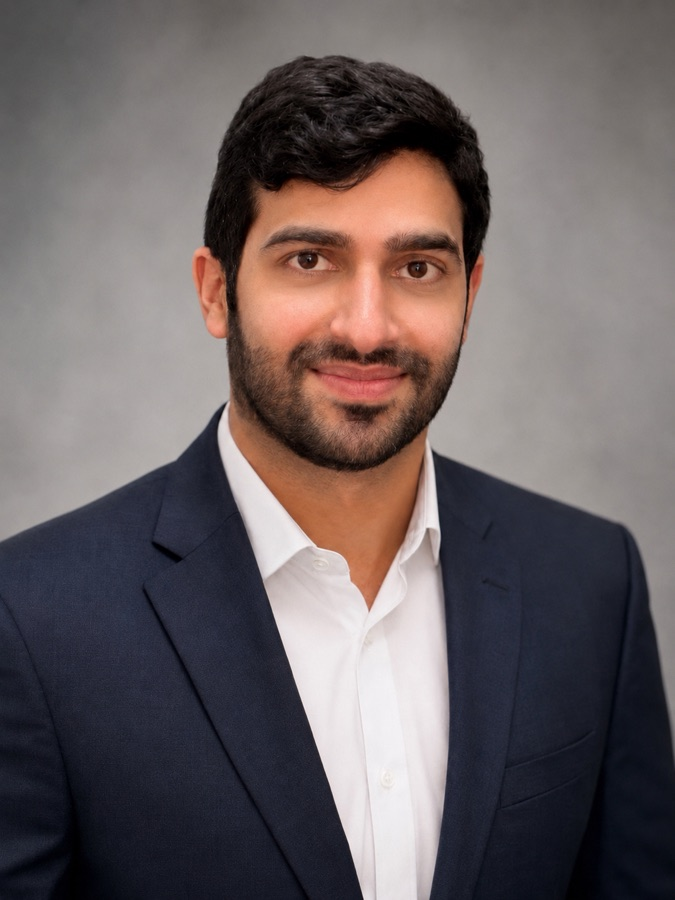
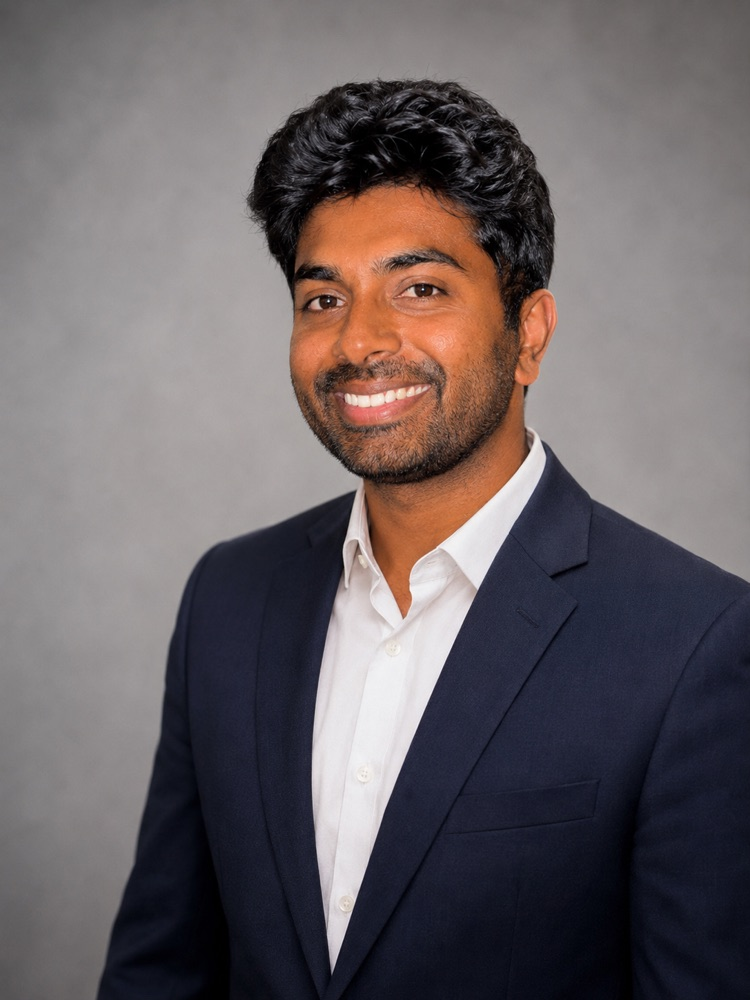
Correct headshots and shorten the founder bios
Both photos re-derived from the paths given, at the same size, so the pairing
is unambiguous. Bios cut to two lines each, both labelled Co-founder.

diff --git a/src/app/about/page.tsx b/src/app/about/page.tsx
@@ -20,18 +20,19 @@ const FOUNDERS = [
   {
     name: "Arya Mehr",
     role: "Co-founder",
-    focus: "Property management, carpentry, and anything from the studs up",
+    focus: "Property management and carpentry",
     photo: "/marketing/founder-arya.jpg",
-    bio: "Arya is a property manager, a carpenter, and a handsome gentleman who is genuinely good with his hands. He can fix anything on a home from the studs up, which in this business is worth considerably more than an MBA. His wife Nina makes him a better man, a fact he will volunteer before you have finished asking. Anything involving a tool, a contractor, or a wall that is not where it should be is his.",
+    bio: "A handsome gentleman who is genuinely good with his hands, and can fix a home from the studs up. His wife Nina makes him a better man.",
   },
   {
     name: "Monish Naidu",
     role: "Co-founder",
     focus: "Product and engineering",
     photo: "/marketing/founder-monish.jpg",
-    bio: "Monish is a product manager who used to be a software engineer, which means he writes the spec and then quietly writes the code as well. He refuses to let a number appear on screen that he cannot trace back to a transaction. He also failed out of becoming a pharmacist, a career change everyone involved now regards as a public service. Under Arya's patient mentorship he is learning to chop wood, and is measurably less dangerous with an axe than he was last spring.",
+    bio: "Product manager, former software engineer, failed pharmacist. Learning to chop wood under Arya's mentorship, and measurably less dangerous with an axe than last spring.",
   },
 ];
+
 const BELIEFS = [
   {
     icon: ShieldCheck,
